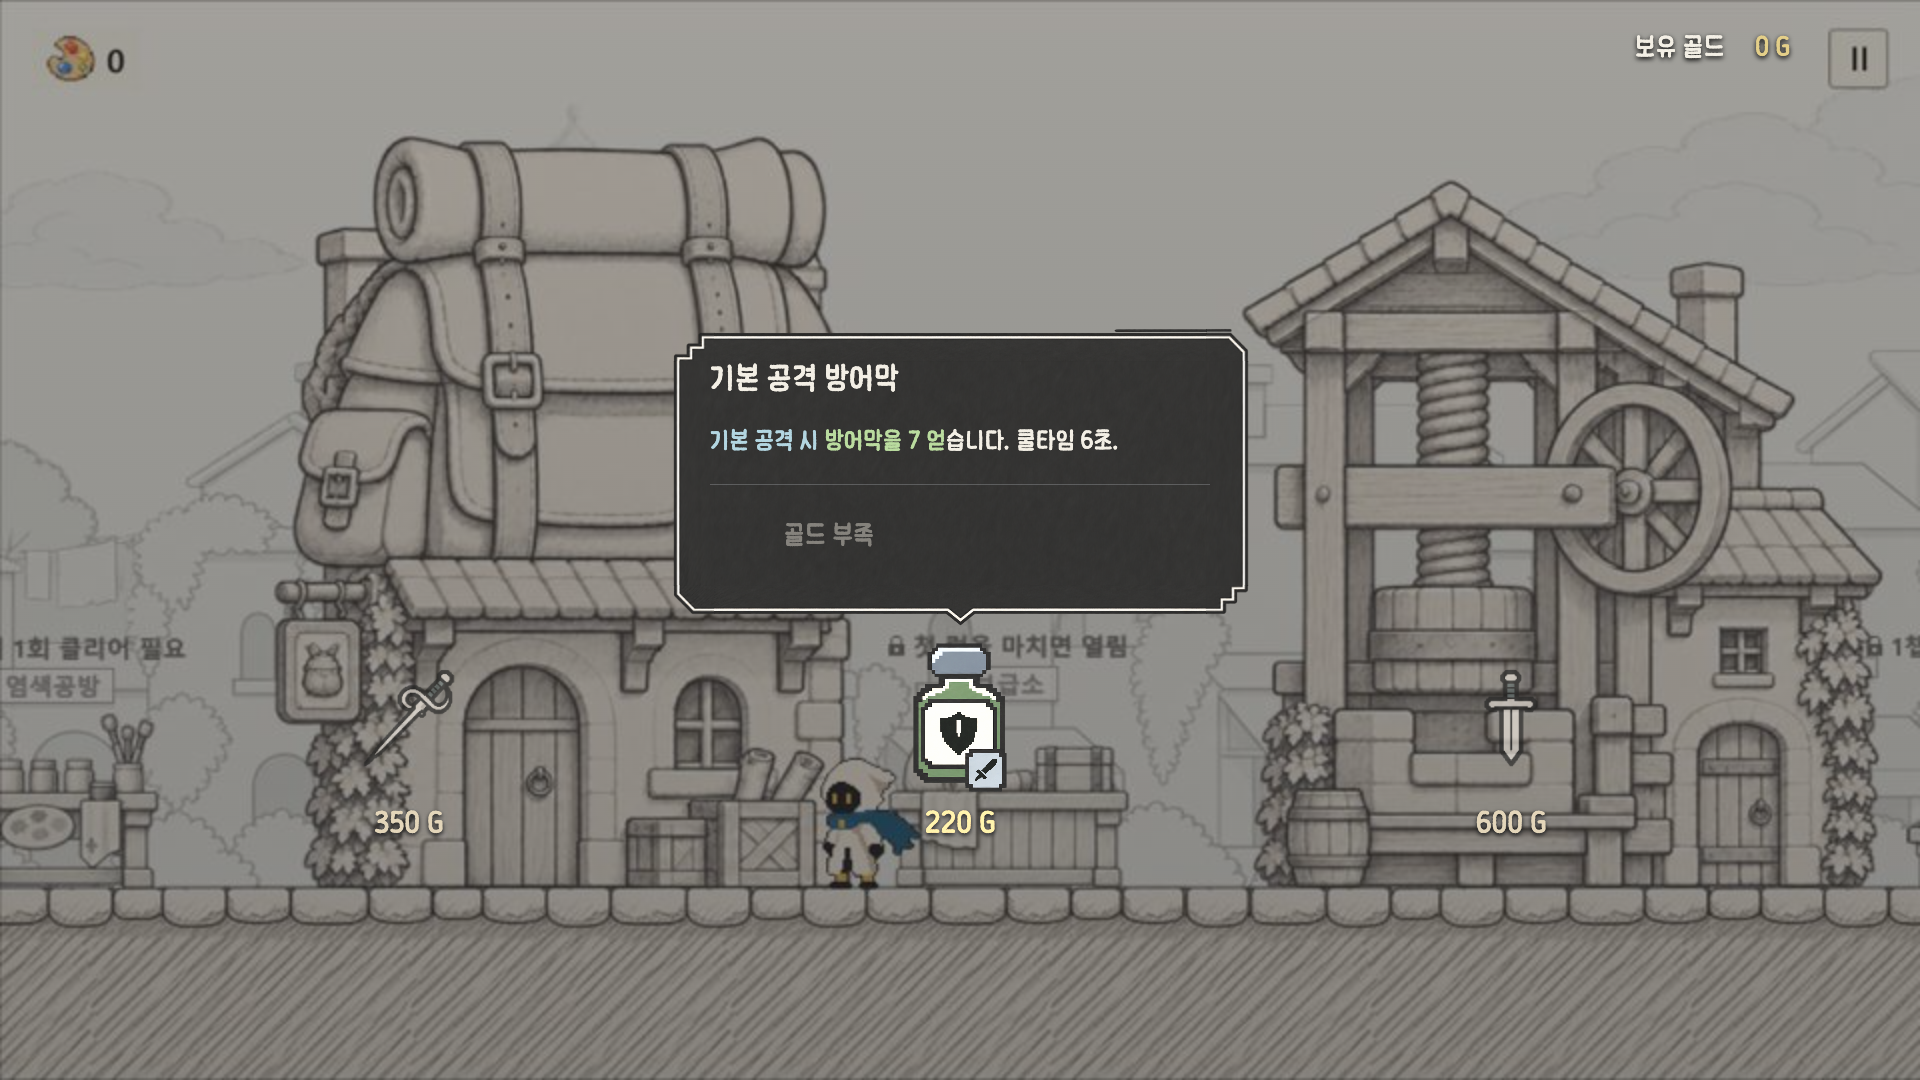
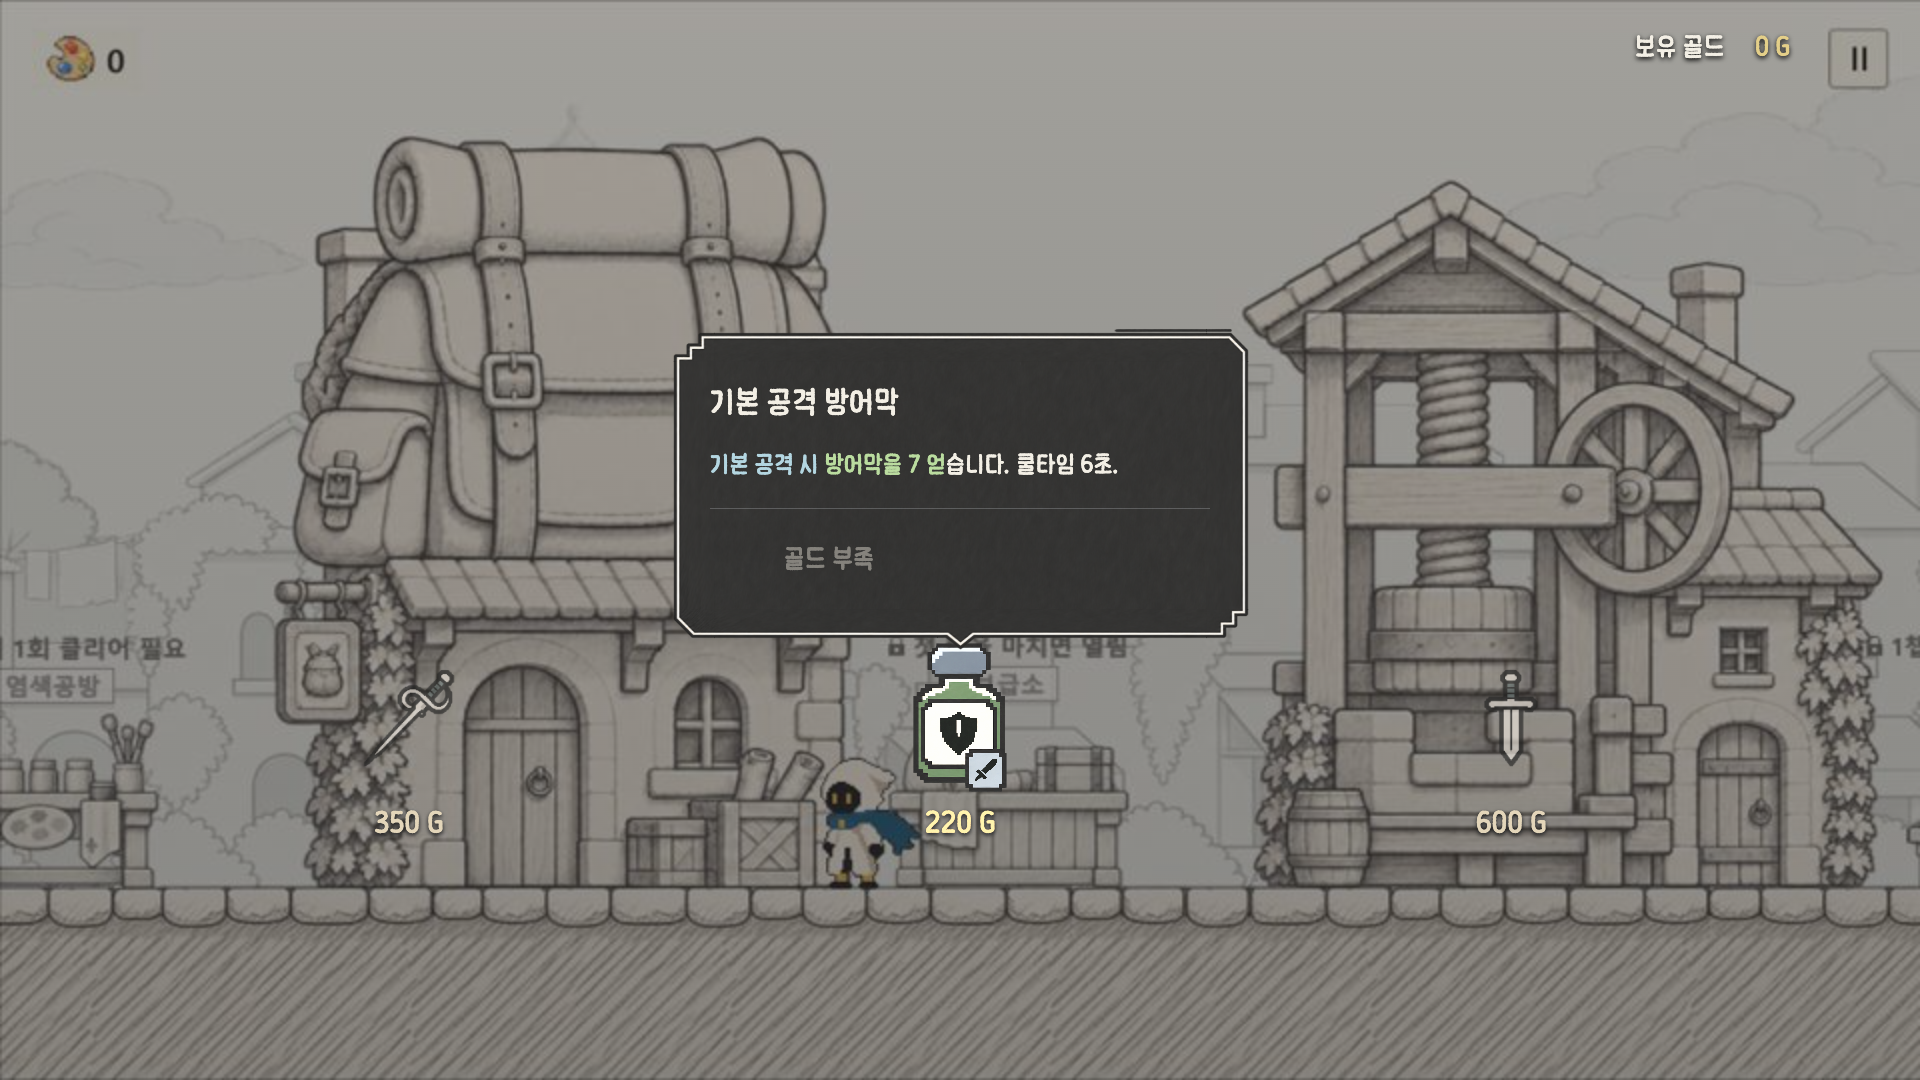
Polish compact rename dialog and world shop padding

Changed region(s): [[0.3438, 0.3361, 0.6562, 0.6111]]

diff --git a/ui/work/theme/ink-pixel-v1/sketch-v3/app.js b/ui/work/theme/ink-pixel-v1/sketch-v3/app.js
@@ -27,7 +27,7 @@ function region(content,active=true,footer=''){return `<section class="region ${
 function grid(list,type,fn='selectItem',selected=pick){return `<div class="grid">${list.map((x,i)=>`<button class="item ${i===selected?'selected':''}" onclick="${fn}(${i})" aria-label="${x.name}" aria-pressed="${i===selected}">${type==='ink'?inkVisual(x):`${approvedWeapon(x)}`}${type==='ink'||view==='bag'?'':`<span>${displayName(x)}</span>${view==='equipment'?durability(x)+`<small class="equippedBadge">${equipped.includes(x.uid)?'무기 '+(equipped.indexOf(x.uid)+1)+' · 장착 중':''}</small>`:`<small>${x.customName?esc(x.name)+' · ':''}${x.skill}</small>`}`}</button>`).join('')}</div>`}
 let bagFocus='items';
 function chooseCategory(t){tab=t;pick=0;bagFocus='tabs';render()}
-function openRename(uid){const w=weapons.find(x=>x.uid===uid);if(!w)return;let d=document.getElementById('renameDialog');if(!d){d=document.createElement('dialog');d.id='renameDialog';document.body.append(d)}d.innerHTML=`<form method="dialog"><h2>무기 이름 변경</h2><p class="muted">${esc(w.name)} · 최대 20자</p><input id="weaponName" aria-label="무기 이름" value="${esc(w.customName||w.name)}" autocomplete="off"><p id="nameCount"></p><div class="actions"><button class="action" type="submit" value="save">저장</button><button class="action secondary" type="submit" value="cancel">취소</button></div></form>`;const input=d.querySelector('input'),count=d.querySelector('#nameCount');function update(){if(!input.composing)input.value=Array.from(input.value).slice(0,20).join('');count.textContent=Array.from(input.value).length+' / 20';d.querySelector('[value="save"]').disabled=!input.value.trim()}input.addEventListener('compositionstart',()=>input.composing=true);input.addEventListener('compositionend',()=>{input.composing=false;update()});input.addEventListener('input',update);d.querySelector('form').onsubmit=e=>{if(e.submitter?.value==='save'){if(input.composing){e.preventDefault();return}const name=Array.from(input.value.trim()).slice(0,20).join('');if(!name){e.preventDefault();return}w.customName=name;toast='무기 이름 변경됨'}};d.onclose=()=>{render();d.remove()};d.showModal();update();input.focus();input.select()}
+function openRename(uid){const w=weapons.find(x=>x.uid===uid);if(!w)return;let d=document.getElementById('renameDialog');if(!d){d=document.createElement('dialog');d.id='renameDialog';document.body.append(d)}d.innerHTML=`<form method="dialog"><h2>무기 이름 변경</h2><p class="muted">${esc(w.name)} · 최대 20자</p><input id="weaponName" aria-label="무기 이름" value="${esc(w.customName||w.name)}" autocomplete="off"><p id="nameCount"></p><div class="actions"><button class="action" type="submit" value="save"><kbd>Enter</kbd>저장</button><button class="action secondary" type="submit" value="cancel"><kbd>Esc</kbd>취소</button></div></form>`;const input=d.querySelector('input'),count=d.querySelector('#nameCount');function update(){if(!input.composing)input.value=Array.from(input.value).slice(0,20).join('');count.textContent=Array.from(input.value).length+' / 20';d.querySelector('[value="save"]').disabled=!input.value.trim()}input.addEventListener('compositionstart',()=>input.composing=true);input.addEventListener('compositionend',()=>{input.composing=false;update()});input.addEventListener('input',update);d.querySelector('form').onsubmit=e=>{if(e.submitter?.value==='save'){if(input.composing){e.preventDefault();return}const name=Array.from(input.value.trim()).slice(0,20).join('');if(!name){e.preventDefault();return}w.customName=name;toast='무기 이름 변경됨'}};d.onkeydown=e=>{if(e.isComposing||input.composing)return;if(e.key==='Enter'){e.preventDefault();const b=document.activeElement.matches('button')?document.activeElement:d.querySelector('[value=save]');if(!b.disabled)d.querySelector('form').requestSubmit(b)}else if(e.key==='Escape'){e.preventDefault();d.close('cancel')}else if(e.key==='ArrowDown'&&document.activeElement===input){e.preventDefault();d.querySelector('[value=save]:not(:disabled)')?.focus()}else if(document.activeElement.matches('button')&&['ArrowLeft','ArrowRight','ArrowUp'].includes(e.key)){e.preventDefault();if(e.key==='ArrowUp')input.focus();else d.querySelector(e.key==='ArrowLeft'?'[value=save]:not(:disabled)':'[value=cancel]')?.focus()}};d.onclose=()=>{render();d.remove()};d.showModal();update();input.focus();input.select()}
 function go(v){if(returnView)return;bagFocus='items';view=v;stage='browse';pick=0;toast='';dialog=null;if(v==='reward'&&chances){openRewards();return}render()}
 function selectItem(i){bagFocus='items';pick=i;if(view==='equipment')stage='chooseWeapon';render()}
 function paletteRail(s,editable){return `<div class="paletteRail">${s.colors.map((_,i)=>`<button class="paletteItem ${slot===i?'selected':''}" onclick="chooseSlot(${i})" ${!editable?'disabled':''} aria-pressed="${slot===i}">${layers(s,i)}<span class="label">${s.applied[i]?.name||'빈 칸'}</span></button>`).join('')}</div><p class="hint">${slot+1} / ${s.colors.length}칸　 ← →　${s.colors.length>3?'옆으로 넘겨 보기':''}</p>`}

diff --git a/ui/work/theme/ink-pixel-v1/sketch-v3/style.css b/ui/work/theme/ink-pixel-v1/sketch-v3/style.css
@@ -230,3 +230,19 @@ body[data-view="shop"][data-world-shop="true"] #app>header{visibility:hidden}bod
 .worldShopGoods{position:absolute;left:2%;right:2%;top:640px;display:grid;grid-template-columns:repeat(3,1fr);gap:60px}.worldGood{display:flex;flex-direction:column;align-items:center;gap:22px;padding:12px;opacity:1!important}.worldGood>.approvedWeapon,.worldGood>.inkVisual{width:132px;height:132px}.worldGood.selected>.approvedWeapon,.worldGood.selected>.inkVisual{transform:scale(1.13)}.worldGood .worldPrice{display:block;font-size:30px;color:#f3d597;text-shadow:0 2px 4px #17191b}.worldShopBubble{position:absolute;top:158px;width:580px;transform:translateX(-50%);padding:36px 40px 60px;isolation:isolate}.worldShopBubble .speechSkin{z-index:-1}.worldShopBubble h2{font-size:32px;margin-bottom:24px}.worldShopBubble p,.worldShopBubble .effectSentence{font-size:25px!important;line-height:1.6!important;margin-bottom:22px}.worldShopBubble .actions{margin-top:22px;padding-top:18px;min-height:0}.worldShopBubble .action{font-size:27px}.worldShopBubble .miniPalette{gap:16px;margin-top:22px}.worldShopBubble .layers{width:66px;height:47px}
 
 .worldShopBubble{top:auto;bottom:340px}
+
+/* Compact native text-entry dialog; reuse approved artwork as a nine-slice frame. */
+#renameDialog{width:min(448px,92vw);max-height:90vh;padding:26px 24px 24px;background:transparent;border:24px solid transparent;border-image:url('../combat-hud-v2/assets/frame-large.png') 210 220 170 220 fill / 24px stretch;overflow:auto;isolation:isolate}
+#renameDialog h2{font-size:26px;line-height:1.35;margin:0 0 22px}
+#renameDialog p.muted{font-size:18px;margin:0 0 22px;color:#b7bec6}
+#renameDialog input{font-size:23px;padding:12px 10px;background:#161c2055;border:0;border-bottom:2px solid #829b9f;border-radius:0;outline:none;letter-spacing:.2px}
+#renameDialog input:focus{border-bottom-color:#b7d6d7;background:#19202588}
+#renameDialog #nameCount{font-size:17px;color:#aeb6c0;margin:10px 0 20px}
+#renameDialog .actions{min-height:0;gap:36px;justify-content:flex-start;margin:0;padding:20px 0 0;border-top:1px solid #abb4bc30}
+#renameDialog .action{font-size:22px;padding:8px 4px;position:relative;isolation:isolate}
+#renameDialog .action kbd{display:inline-block;font-size:13px;padding:3px 5px;margin-right:10px;color:#b7cbd3;border:1px solid #b7cbd370;border-radius:3px;vertical-align:middle}
+#renameDialog .action:before{content:'';position:absolute;inset:0 -10px;background:url('../maintenance-palette-v1/assets/selection-wash-v1.png') center/100% 100% no-repeat;opacity:0;z-index:-1}
+#renameDialog .action:focus:before,#renameDialog .action:hover:before{opacity:.48}
+#renameDialog .action:focus-visible{outline:none}
+.worldShopBubble{padding-top:60px;bottom:316px}
+#renameDialog .action{min-height:38px}#renameDialog .action:not(:disabled) kbd{visibility:visible;opacity:1}#renameDialog{padding-top:22px;padding-bottom:22px}

diff --git a/ui/work/theme/ink-pixel-v1/sketch-v3/content-flows.js b/ui/work/theme/ink-pixel-v1/sketch-v3/content-flows.js
@@ -45,6 +45,6 @@ let worldShop=false;
 const menuShopScreen=shopScreen;
 shopScreen=function(){document.body.dataset.worldShop=String(worldShop);if(!worldShop)return menuShopScreen();reconcileShop();const o=shopOffers[pick],locked=o.sold?'품절':gold<o.price?'골드 부족':'';const center=[18,50,82][pick];return `<div class="worldShopBalance">보유 골드 <b>${gold} G</b></div><div class="worldShopGoods">${shopOffers.map((x,i)=>`<button class="worldGood item ${pick===i?'selected':''} ${x.sold?'soldItem':''}" onclick="selectItem(${i})">${x.type==='ink'?inkVisual(x.item):approvedWeapon(x.item)}<span class="worldPrice">${x.sold?'품절':x.price+' G'}</span></button>`).join('')}</div><section class="worldShopBubble" style="left:${center}%">${speechFrame()}<h2>${esc(o.item.name)}</h2>${o.type==='ink'?sentence(o.item):`<p>${esc(o.item.skill)}</p><p>${esc(o.item.desc)}</p><div class="miniPalette">${o.item.colors.map((_,i)=>layers(o.item,i)).join('')}</div>`}<div class="actions">${action(locked||'구매 · '+o.price+' G','buy()',!!locked)}</div></section>`};
 const contentScenario=scenario;
-scenario=function(name){if(name.startsWith('shop-world')){worldShop=true;makeShop(1);shopOffers=[shopOffers[0],shopOffers[3],shopOffers[2]];view='shop';pick=1;gold=name==='shop-world-poor'?0:800;if(name==='shop-world-sold')shopOffers[1].sold=true;render();return}if(name==='ink-color-rule'){view='bag';tab='ink';owned=[...inkData];pick=4;render();return}if(name==='craft-color-rule'){contentScenario('craft-match');pick=4;render();return}contentScenario(name)};
+scenario=function(name){if(name==='equipment-rename-dialog'){view='equipment';render();openRename(weapons[0].uid);return}if(name.startsWith('shop-world')){worldShop=true;makeShop(1);shopOffers=[shopOffers[0],shopOffers[3],shopOffers[2]];view='shop';pick=1;gold=name==='shop-world-poor'?0:800;if(name==='shop-world-sold')shopOffers[1].sold=true;render();return}if(name==='ink-color-rule'){view='bag';tab='ink';owned=[...inkData];pick=4;render();return}if(name==='craft-color-rule'){contentScenario('craft-match');pick=4;render();return}contentScenario(name)};
 makeShop(1);
 fit();if(q.get('state'))scenario(q.get('state'));else if(view==='reward')openRewards();else render();

diff --git a/ui/work/theme/ink-pixel-v1/catalog-data.js b/ui/work/theme/ink-pixel-v1/catalog-data.js
@@ -697,5 +697,11 @@ const catalogItems=[
     "title": "제작 · 일치 효과·적용 수치",
     "img": "sketch-v3/previews/craft-color-rule.png",
     "url": "sketch-v3/index.html?state=craft-color-rule"
+  },
+  {
+    "group": "장비",
+    "title": "무기 이름 변경 · 축소·테마 프레임",
+    "img": "sketch-v3/previews/equipment-rename-dialog.png",
+    "url": "sketch-v3/index.html?state=equipment-rename-dialog"
   }
 ];

diff --git a/ui/work/theme/ink-pixel-v1/sketch-v3/CONTENT-STATUS.md b/ui/work/theme/ink-pixel-v1/sketch-v3/CONTENT-STATUS.md
@@ -36,3 +36,9 @@ Unity 적용 전 HTML 프로토타입. 전체 갤러리: `../catalog.html`.
 - 기존 전체 화면 상점은 갤러리의 **보관 · 전체 화면 상점**으로 이동.
 - **검토안 · 월드 상점**: 상품3개와 가격 → 근접 상품 위 기존 꼬리 프레임 → F 구매. 키보드/클릭으로 상품을 선택해 접근 상태를 미리 본다. 실제 캐릭터 이동·근접 판정은 Unity 미적용이며, 배경은 기존 마을 시안 재사용이다.
 - 정비소→상점 명칭 변경과 실제 진열 방식은 미확정으로 기록하며 다른 기능을 일괄 변경하지 않음.
+
+## 팝업 여백·이름 변경 창 조정
+- 월드 상점 설명창 상단 여백 36→60px, 내용과 꼬리 위치를 아래로 조정.
+- 이름 변경 창 폭 640→448px(70%). 기존 HUD 프레임을 9분할 방식으로 재사용해 모서리를 유지.
+- 이름 입력은 20자 제한·한글 조합 유지, Enter 저장/Esc 취소. 입력에서 ↓로 저장, ←→로 버튼 이동, ↑로 입력 복귀.
+- 갤러리에 이름 변경 창 독립 시안 추가. Unity 미적용.
